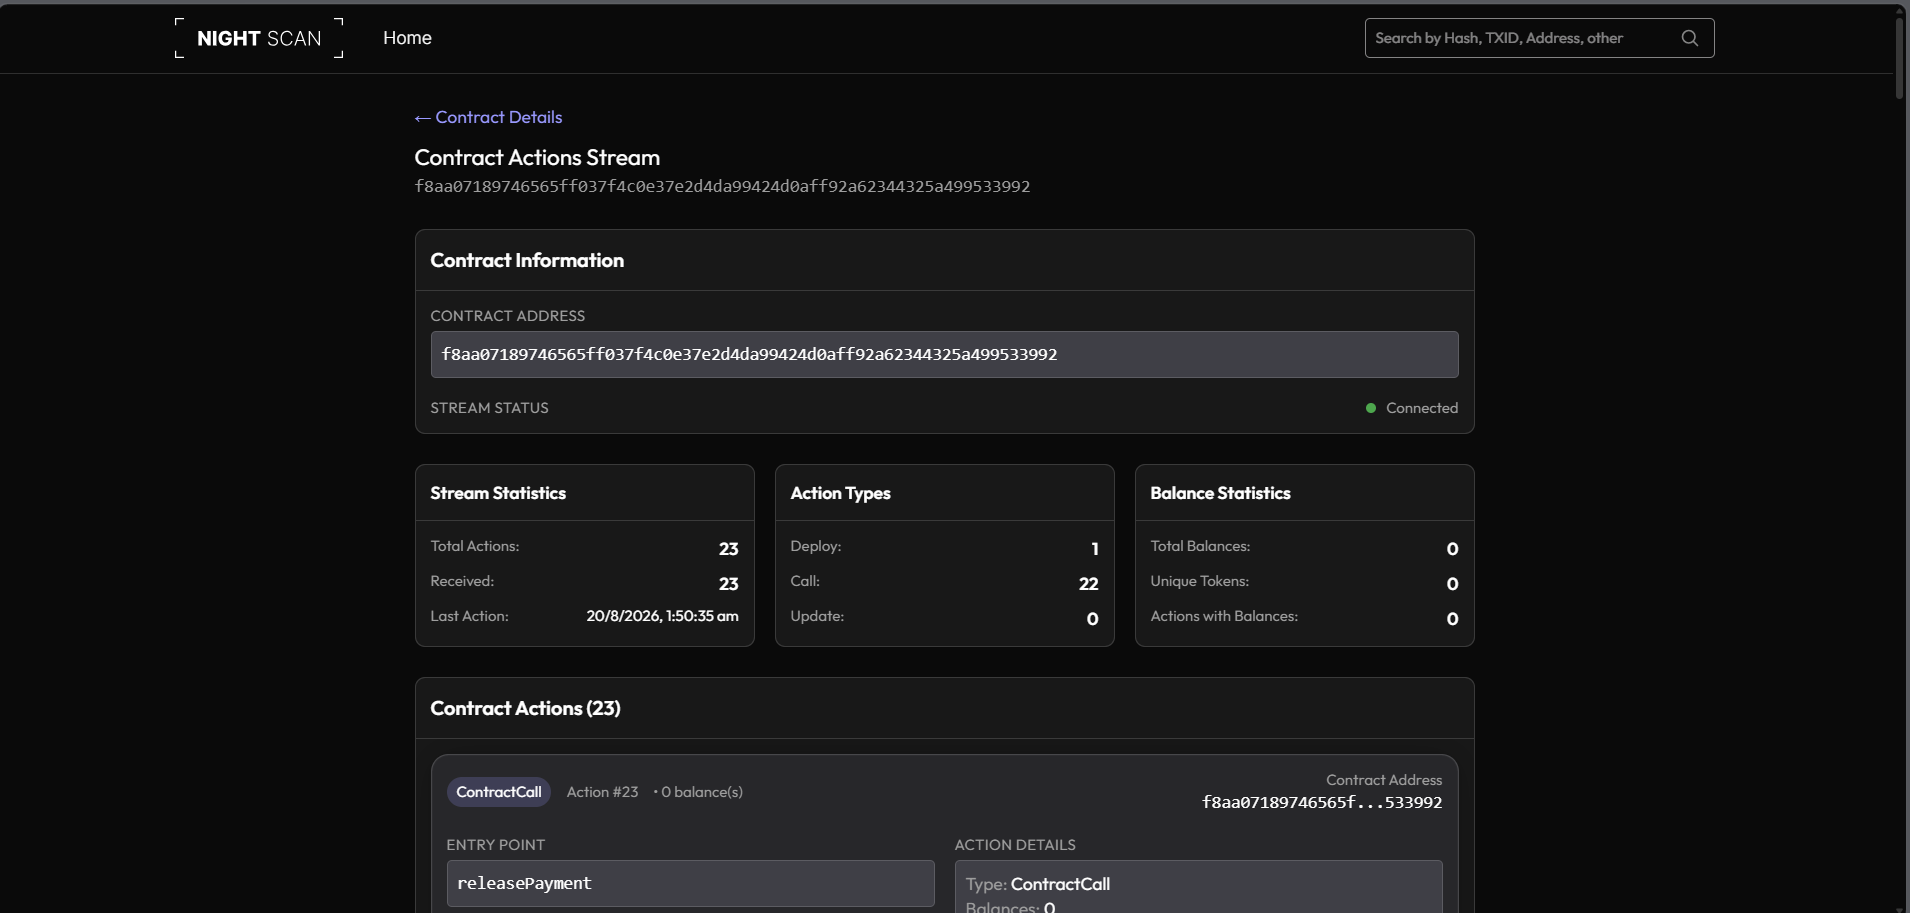
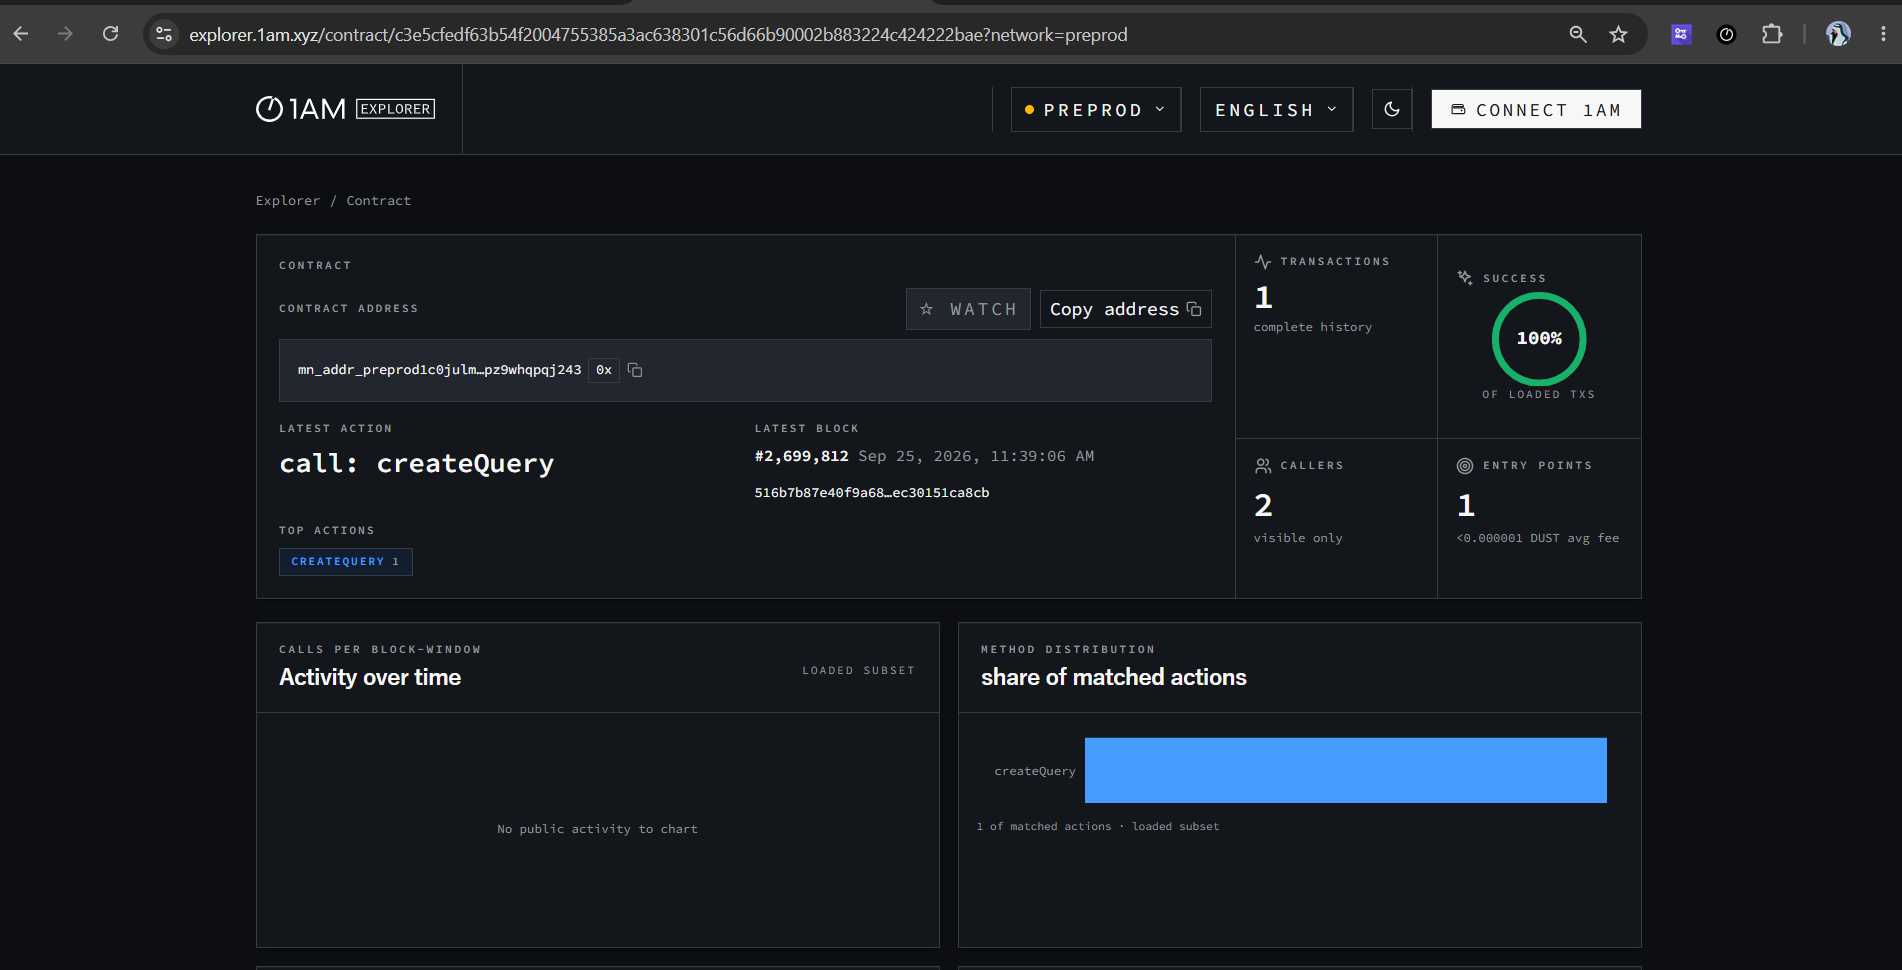
feat: update ZK Proof images from README and assets

diff --git a/README.md b/README.md
@@ -126,15 +126,6 @@ c3e5cfedf63b54f2004755385a3ac638301c56d66b90002b883224c424222bae
 #### 2. Successful Deployment
 <img src="assets/SMART-CONTRACTS/contracts-deploy.png" width="800"/><br/><br/>
 
-#### 3. ZK Proof: Create Query
-<img src="assets/SMART-CONTRACTS/create-query.png" width="800"/><br/><br/>
-
-#### 4. ZK Proof: Submit Result
-<img src="assets/SMART-CONTRACTS/submit-result.png" width="800"/><br/><br/>
-
-#### 5. ZK Proof: Release Payment
-<img src="assets/SMART-CONTRACTS/release-payment.png" width="800"/>
-
 ---
 
 ## 🏗 Architecture
